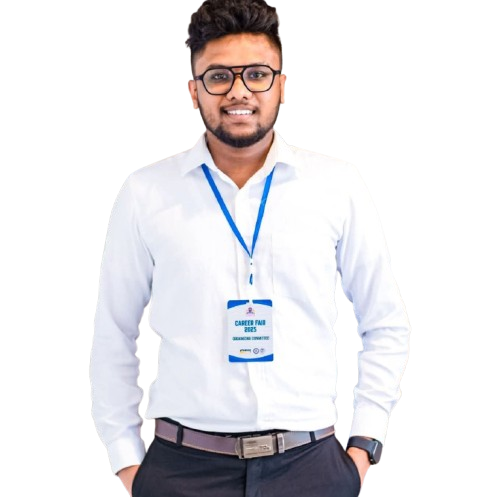
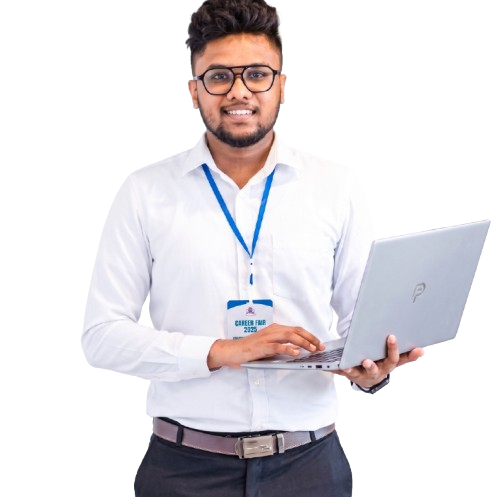
Update transparent profile image with 3D turn motion

diff --git a/app/page.tsx b/app/page.tsx
@@ -17,44 +17,30 @@ export default function Home() {
       {/* Hero Section */}
       <section className="grid grid-cols-1 md:grid-cols-3 gap-8 items-center max-w-6xl mx-auto my-12">
         
-        {/* Profile Image Card with Futuristic Tech Motion */}
-        <div className="flex justify-center relative group">
+        {/* Profile Image with Seamless Transparent Motion (No Box/Border) */}
+        <div className="flex justify-center relative group [perspective:1000px]">
           
-          {/* Background Ambient Glow */}
-          <div className="absolute -inset-1 bg-gradient-to-r from-green-500/30 to-emerald-500/30 rounded-2xl blur-lg opacity-75 group-hover:opacity-100 transition duration-1000 group-hover:duration-200 animate-pulse"></div>
+          {/* Subtle Ambient Green Backdrop Glow */}
+          <div className="absolute inset-0 bg-gradient-to-tr from-green-500/20 via-emerald-500/10 to-transparent rounded-full blur-3xl opacity-60 group-hover:opacity-100 transition duration-1000"></div>
 
-          {/* Floating Tech Badge Left Top */}
-          <div className="absolute -top-3 -left-4 z-20 bg-black/80 border border-green-500/50 px-2 py-1 rounded-md text-[10px] font-mono text-green-400 shadow-lg animate-bounce duration-1000 hidden sm:flex items-center gap-1">
+          {/* Floating Status Badges */}
+          <div className="absolute -top-2 -left-2 z-20 bg-black/80 border border-green-500/50 px-2 py-1 rounded-md text-[10px] font-mono text-green-400 shadow-lg animate-bounce duration-1000 hidden sm:flex items-center gap-1">
             <span className="h-1.5 w-1.5 bg-green-400 rounded-full animate-ping"></span>
             SYS_ONLINE
           </div>
 
-          {/* Floating Tech Badge Right Bottom */}
-          <div className="absolute -bottom-3 -right-4 z-20 bg-black/80 border border-green-500/50 px-2.5 py-1 rounded-md text-[10px] font-mono text-green-400 shadow-lg animate-pulse hidden sm:flex items-center gap-1">
+          <div className="absolute bottom-2 -right-2 z-20 bg-black/80 border border-green-500/50 px-2.5 py-1 rounded-md text-[10px] font-mono text-green-400 shadow-lg animate-pulse hidden sm:flex items-center gap-1">
             <span className="text-xs">⚡</span> K8S_READY
           </div>
 
-          {/* Main Card Container */}
-          <div className="relative w-64 h-80 rounded-2xl overflow-hidden border-2 border-green-500/40 bg-gradient-to-b from-gray-900 via-black to-gray-950 p-2 shadow-2xl shadow-green-500/20 group-hover:border-green-400 transition-all duration-500">
-            
-            {/* Tech Radar Laser Scanning Line */}
-            <div className="absolute inset-0 z-10 pointer-events-none overflow-hidden">
-              <div className="w-full h-1 bg-gradient-to-r from-transparent via-green-400 to-transparent shadow-[0_0_15px_#22c55e] animate-[bounce_3s_infinite] opacity-70"></div>
-            </div>
-
-            {/* Corner Bracket Accents for Sci-Fi Look */}
-            <div className="absolute top-2 left-2 w-3 h-3 border-t-2 border-l-2 border-green-400 z-10"></div>
-            <div className="absolute top-2 right-2 w-3 h-3 border-t-2 border-r-2 border-green-400 z-10"></div>
-            <div className="absolute bottom-2 left-2 w-3 h-3 border-b-2 border-l-2 border-green-400 z-10"></div>
-            <div className="absolute bottom-2 right-2 w-3 h-3 border-b-2 border-r-2 border-green-400 z-10"></div>
-
-            {/* Profile Image with subtle Zoom Motion on Hover */}
+          {/* Transparent Profile Image with Smooth Entrance Turn Animation */}
+          <div className="relative w-72 h-96 transition-all duration-700 ease-out transform group-hover:[transform:rotateY(0deg)_scale(1.05)] [transform:rotateY(-12deg)] drop-shadow-[0_10px_25px_rgba(34,197,94,0.15)] group-hover:drop-shadow-[0_15px_35px_rgba(34,197,94,0.3)]">
             <Image
               src={profileImg}
               alt="Chamod Dinusha"
               fill
-              sizes="(max-width: 768px) 100vw, 256px"
-              className="object-cover rounded-xl transform group-hover:scale-105 transition duration-700 ease-out grayscale-[20%] group-hover:grayscale-0"
+              sizes="(max-width: 768px) 100vw, 300px"
+              className="object-contain filter brightness-105 contrast-105"
               priority
             />
           </div>
